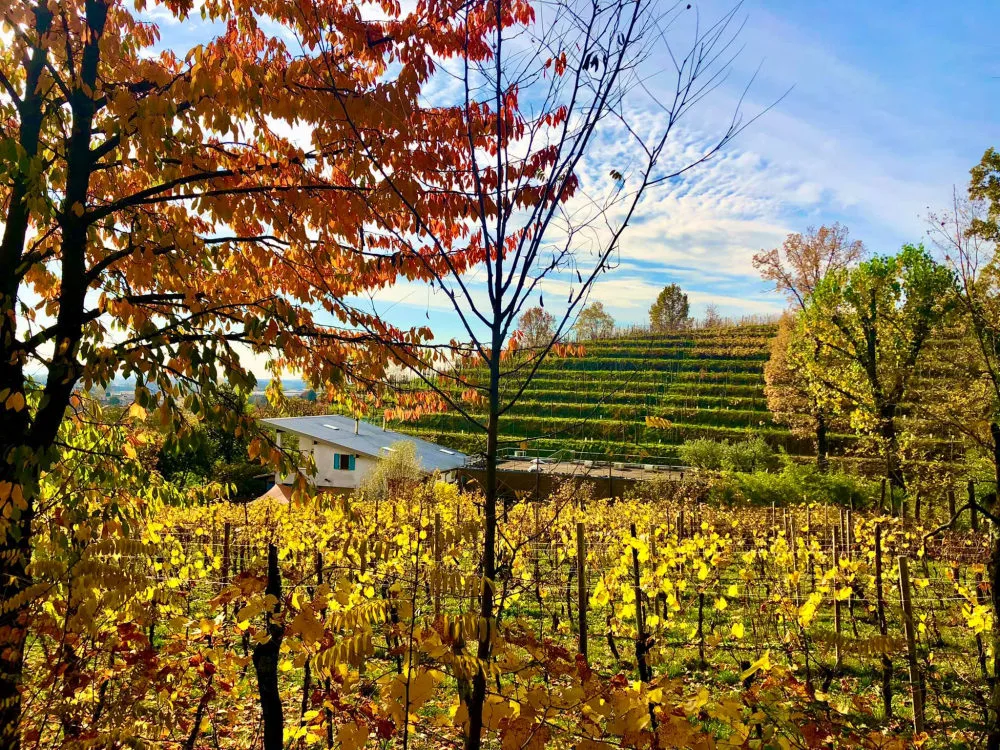
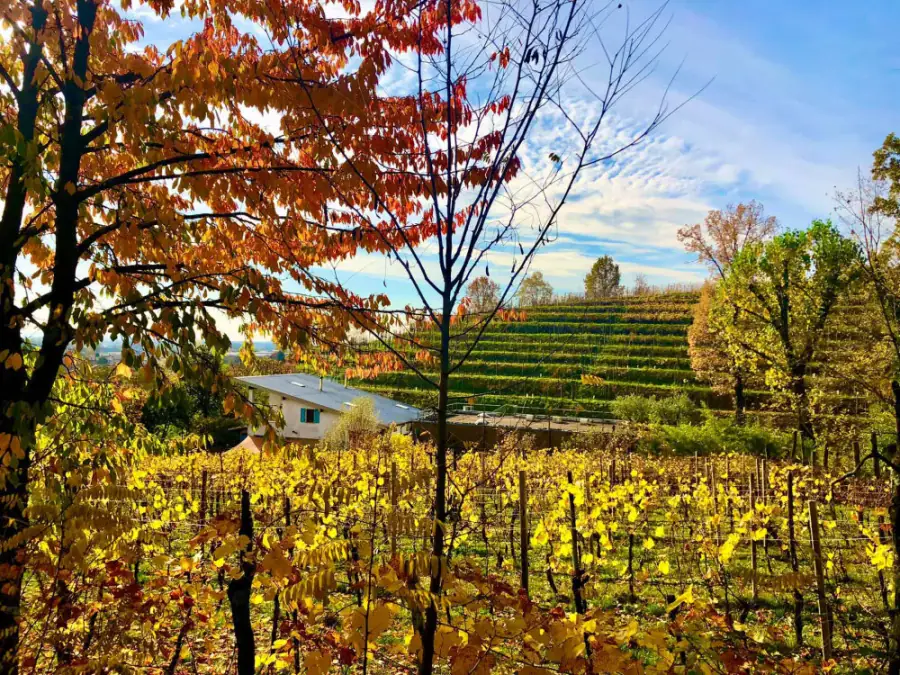
Miglioramenti tecnici: telefono, menu, velocità, Google e privacy
- Caratteri grandi: parole e indirizzi lunghi vanno a capo invece di uscire dallo schermo; colonne .split a minmax(0, 1fr).
- Salti alle sezioni: si fermano sotto l'intestazione fissa (scroll-margin-top globale a specificità zero).
- Menu del telefono: scorre se è più alto dello schermo, si chiude con Esc, toccando fuori o uscendo col focus;
  voce attuale segnata anche con una barra; logo alto 44 px; contrasto della voce attuale su computer 6,2:1.
- Manrope: solo il sottoinsieme latin, precaricato. Il CSS che blocca la pagina non porta più cirillico/greco/vietnamita.
- netlify.toml: cache di un anno per /_astro, di un giorno per /img. Il noindex dell'anteprima ora lo scrive la build
  in dist/_headers finché config.anteprima è true: al lancio basta un interruttore.
- sitemap.xml generata (pagine fisse + 25 mestieri), già indicata da robots.txt al lancio.
- Privacy: "Che cosa ci arriva" con il testo della domanda 9 del brief 16/11 (via "senza dati personali").
- Scarica: il pulsante del file APK compare solo se il file esiste; finché manca, segnaposto.
- og.png: "proposte d'ordine" al posto di "ordini"; og:image:width/height.
- vino.webp: 900x675, da 308 a 166 KB (stesse proporzioni).
- README: sezione "Anteprima e lancio".

diff --git a/src/styles/global.css b/src/styles/global.css
@@ -2,7 +2,18 @@
    Colori presi dall'app: turchese #0F9E97, sfondo menta -> sabbia, schede bianche arrotondate, pulsanti a pillola.
    Per i testi e i pulsanti si usa un turchese piu' scuro (#0A7C76) che ha contrasto sufficiente sul bianco. */
 
-@import '@fontsource-variable/manrope';
+/* Manrope: solo il sottoinsieme latin (copre italiano, accenti, virgolette e trattini). Gli altri sottoinsiemi
+   del pacchetto (cirillico, greco, vietnamita, latin-ext) non servono e appesantivano il CSS che blocca la pagina.
+   Lo stesso file e' precaricato in Base.astro. */
+@font-face {
+  font-family: 'Manrope Variable';
+  font-style: normal;
+  font-display: swap;
+  font-weight: 200 800;
+  src: url('@fontsource-variable/manrope/files/manrope-latin-wght-normal.woff2') format('woff2-variations');
+  unicode-range: U+0000-00FF, U+0131, U+0152-0153, U+02BB-02BC, U+02C6, U+02DA, U+02DC, U+0304, U+0308, U+0329,
+    U+2000-206F, U+20AC, U+2122, U+2191, U+2193, U+2212, U+2215, U+FEFF, U+FFFD;
+}
 
 :root {
   --brand: #0f9e97;          /* colore del marchio: icone, dettagli, illustrazioni */
@@ -65,6 +76,9 @@
 *, *::before, *::after { box-sizing: border-box; }
 
 html { -webkit-text-size-adjust: 100%; scroll-behavior: smooth; }
+/* I salti alle ancore (#mestieri, #scrivici, "Vai al contenuto"...) si fermano sotto l'intestazione fissa (72 px).
+   :where() ha specificita' zero: le pagine che hanno gia' un loro scroll-margin-top lo tengono. */
+:where([id]) { scroll-margin-top: 88px; }
 @media (prefers-reduced-motion: reduce) {
   html { scroll-behavior: auto; }
   *, *::before, *::after { transition-duration: 0.01ms !important; animation-duration: 0.01ms !important; }
@@ -79,6 +93,9 @@ body {
   color: var(--ink);
   background: var(--bg);
   overflow-x: clip;
+  /* Con i caratteri grandi del telefono una parola o un indirizzo lungo (goklient.app/account) va a capo invece di
+     uscire dallo schermo. Agisce solo quando la parola non ci sta. */
+  overflow-wrap: break-word;
 }
 
 img, svg { max-width: 100%; height: auto; display: block; }
@@ -130,8 +147,9 @@ a:hover { color: var(--brand-ink); }
 .grid-3 { grid-template-columns: repeat(auto-fit, minmax(min(100%, 300px), 1fr)); }
 .grid-4 { grid-template-columns: repeat(auto-fit, minmax(min(100%, 230px), 1fr)); }
 
-/* Testo + immagine affiancati; .split--reverse mette l'immagine a sinistra */
-.split { display: grid; gap: clamp(32px, 6vw, 80px); align-items: center; grid-template-columns: 1fr; }
+/* Testo + immagine affiancati; .split--reverse mette l'immagine a sinistra.
+   minmax(0, 1fr): con i caratteri grandi del telefono una parola lunga non allarga la colonna oltre lo schermo. */
+.split { display: grid; gap: clamp(32px, 6vw, 80px); align-items: center; grid-template-columns: minmax(0, 1fr); }
 @media (min-width: 900px) {
   .split { grid-template-columns: 1.1fr 0.9fr; }
   .split--reverse > :first-child { order: 2; }

diff --git a/src/pages/sitemap.xml.ts b/src/pages/sitemap.xml.ts
@@ -1,0 +1,28 @@
+// Mappa del sito per Google: le pagine fisse e le 25 pagine dei mestieri, senza la 404.
+// robots.txt la indica solo quando config.anteprima e' false (al lancio su goklient.app).
+import type { APIRoute } from 'astro';
+import { mestieri } from '../data/mestieri';
+
+const pagine = [
+  '/',
+  '/come-funziona',
+  '/mestieri',
+  '/prezzi',
+  '/scarica',
+  '/domande-frequenti',
+  '/assistenza',
+  '/privacy',
+  '/condizioni',
+  '/elimina-account',
+  ...mestieri.map((m) => `/mestieri/${m.slug}`),
+];
+
+export const GET: APIRoute = ({ site }) => {
+  const url = (p: string) => `  <url><loc>${new URL(p, site).href.replace(/\/$/, p === '/' ? '/' : '')}</loc></url>`;
+  const body = `<?xml version="1.0" encoding="UTF-8"?>
+<urlset xmlns="http://www.sitemaps.org/schemas/sitemap/0.9">
+${pagine.map(url).join('\n')}
+</urlset>
+`;
+  return new Response(body, { headers: { 'Content-Type': 'application/xml; charset=utf-8' } });
+};

diff --git a/README.md b/README.md
@@ -33,6 +33,21 @@ for d in node_modules dist .astro; do mkdir -p $d && xattr -w 'com.apple.filepro
 
 Indirizzi fissi già dati a Google Play, da non cambiare: `/privacy`, `/elimina-account`, `/condizioni`.
 
+## Anteprima e lancio
+
+- Finché `config.anteprima` è `true` nessuna pagina va su Google: meta robots `noindex` in ogni pagina, `robots.txt`
+  che blocca tutto e, scritto dalla build, il file `dist/_headers` con `X-Robots-Tag: noindex, nofollow`
+  (vedi `astro.config.mjs`). Sulle anteprime delle PR Netlify aggiunge anche un suo `noindex`.
+- **Al lancio su goklient.app** basta mettere `anteprima: false` in `src/config.ts`: spariscono il `noindex` e il file
+  `_headers`, e `robots.txt` indica la mappa del sito `sitemap.xml` (generata da `src/pages/sitemap.xml.ts`).
+  Poi controllare con `curl -I https://goklient.app/` che non ci sia `X-Robots-Tag` e inviare la sitemap a Google
+  Search Console.
+- Il pulsante "Scarica goKlient per Android" compare da solo quando il file indicato in `config.apk.url`
+  (oggi `/scarica/goklient.apk`) esiste in `public/`. Finché manca, al suo posto c'è un segnaposto.
+- Cache (`netlify.toml`): `/_astro/*` per un anno, perché i nomi hanno l'impronta; `/img/*` per un giorno. Chi
+  sostituisce un'immagine tenendo lo stesso nome la vede aggiornata entro un giorno: per vederla subito, cambiare nome.
+- `public/og.png` è l'immagine che compare quando si condivide un link (WhatsApp, Facebook): 1200×630.
+
 ## Regole dei testi (dal brief)
 
 - I testi del brief si possono **accorciare**, ma non si aggiungono funzioni, numeri o promesse che non ci sono.
